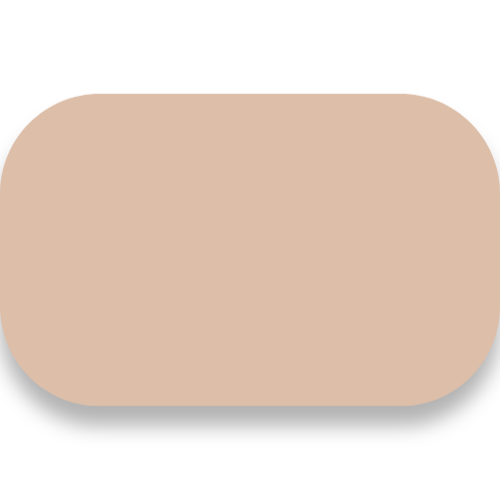
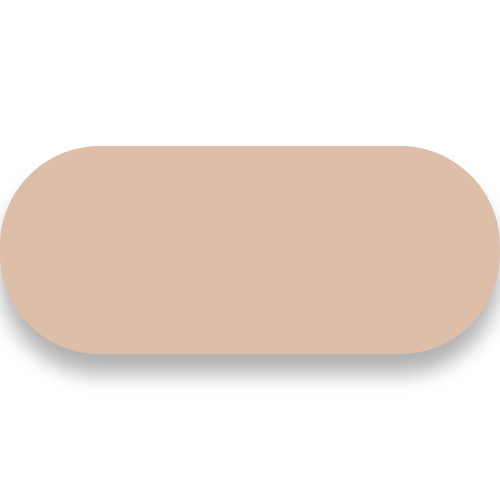
Made buttons rounder

Changed region(s): [[0.0, 0.51, 1.0, 0.87], [0.0, 0.18, 1.0, 0.48]]

diff --git a/planning.md b/planning.md
@@ -77,6 +77,7 @@
 - ❌ Make exit gates be in different places in each level
 - ❌ Warn player about not being able to transition to different area of level without both players reaching door
 - ❌ Make harder levels have more collectibles, pushable objects, switches, obstacles (add more areas to have more room)
+- ❌ Add opening animations to exit gates
 
 ## Level Timer
 - ❌ Keep track of time per level
@@ -125,8 +126,7 @@
 - ❌ Make Unity default background be black instead of blue (in case it is visible in full screen mode)
 - ❌ Add fade-in / fade-out transitions in between scenes
 - ❌ Add slide-up / slide-down transitions when popups appear
-- ❌ Add opening animations to exit gates
-- ❌ Make buttons rounder
+- ✅ Make buttons rounder
 
 ## Submission Checklist
 - ❌ Tutorial in game explains EVERYTHING in game and aligns with "How to Play section of readme
